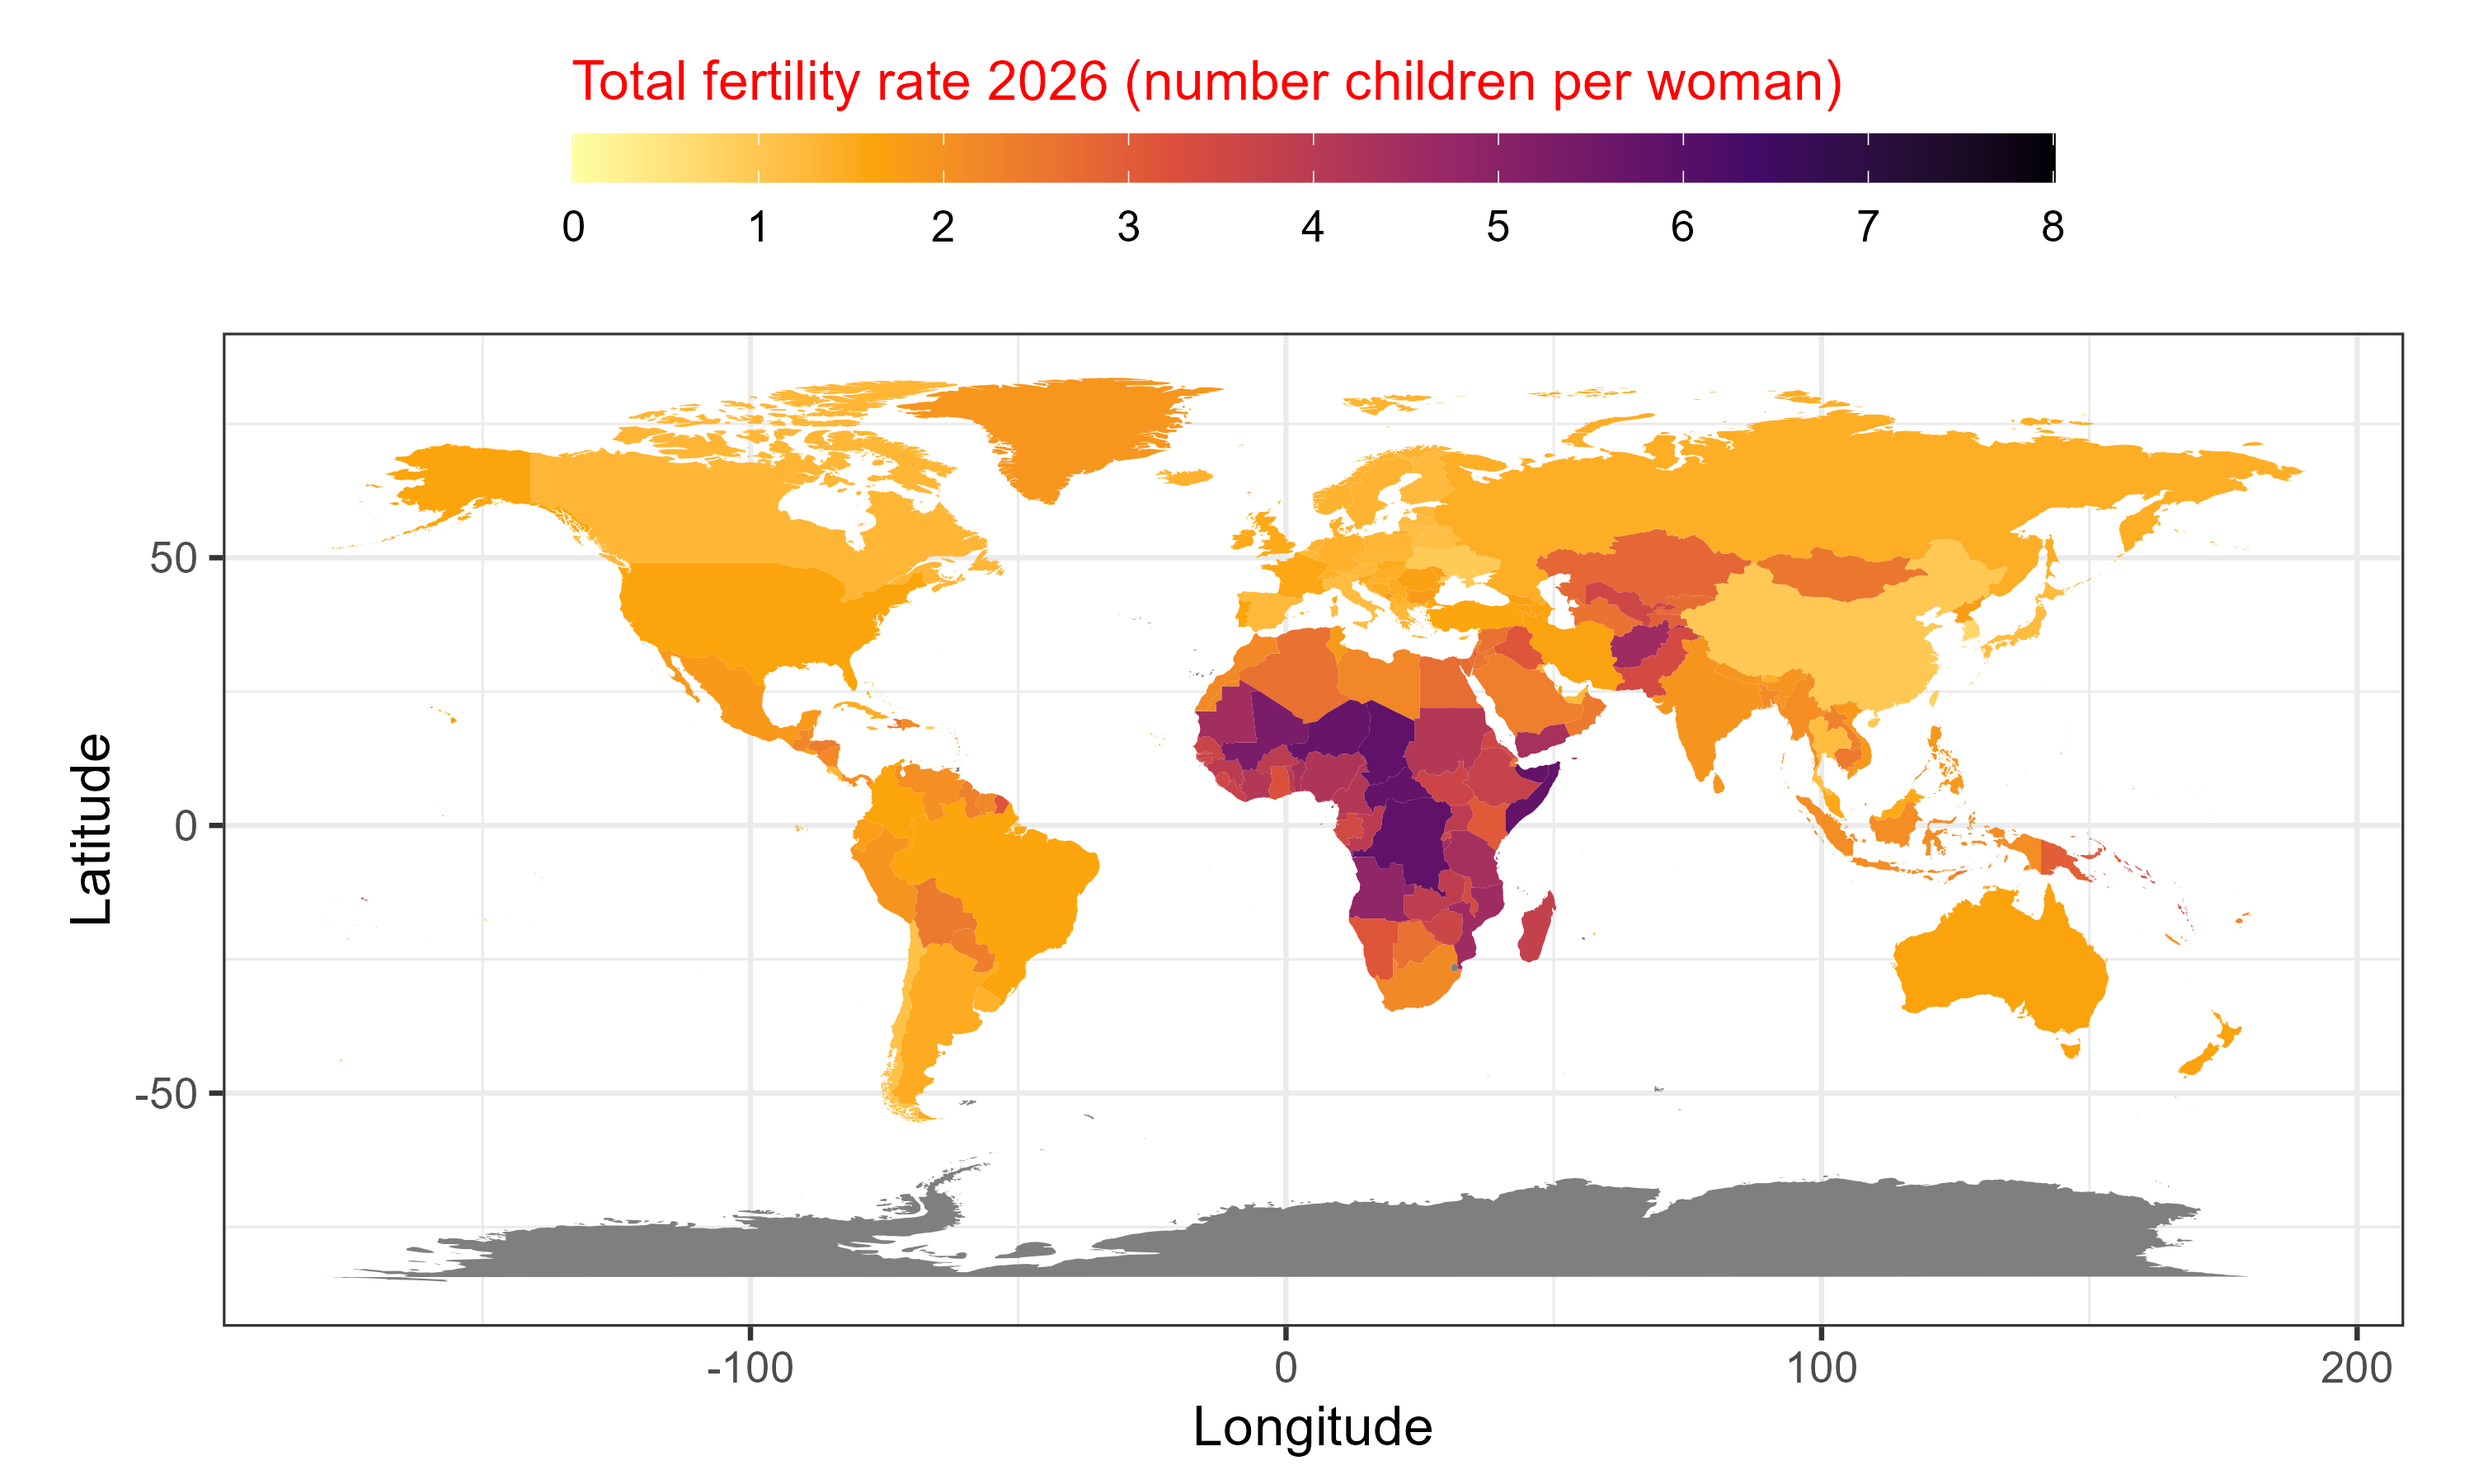
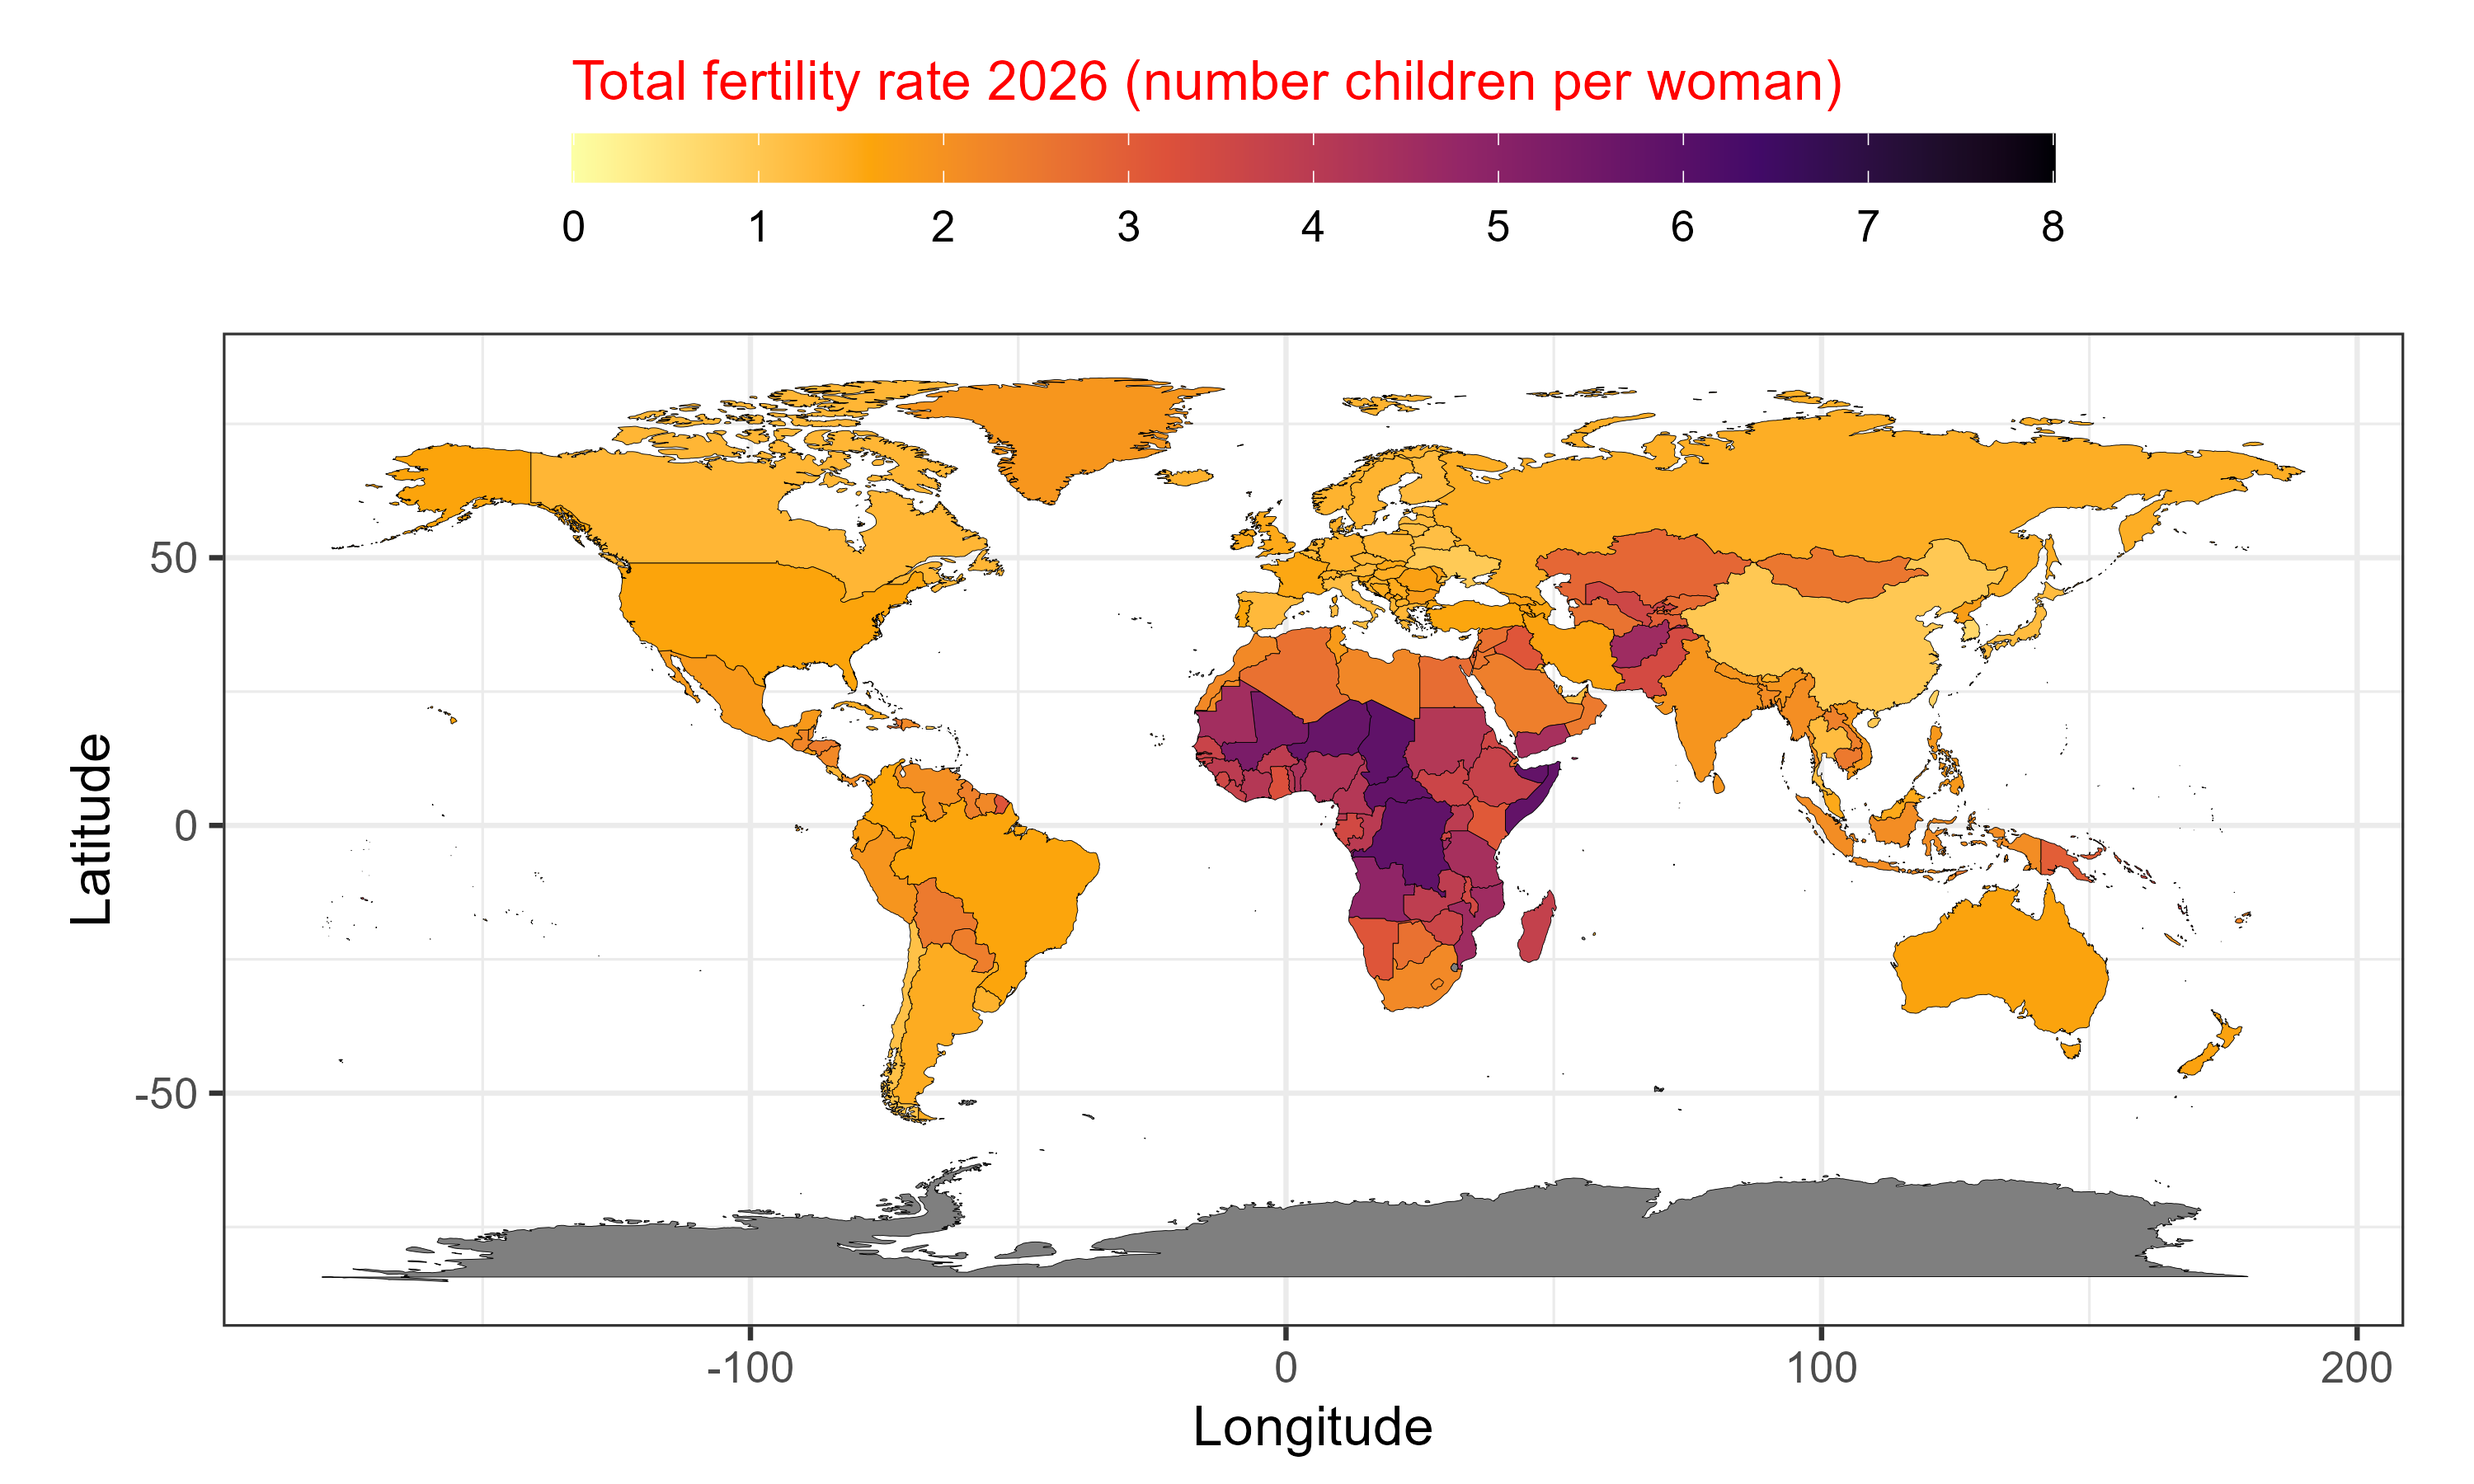
.

diff --git a/docs/bai-tap-ve-ban-do-tfr.html b/docs/bai-tap-ve-ban-do-tfr.html
@@ -736,32 +736,34 @@ div.yes123 pre.r { background-color:#F1F3F5; font-size: 16px; }
 <span id="cb25-4"><a href="#cb25-4" aria-hidden="true" tabindex="-1"></a>               <span class="fu">aes</span>(<span class="at">x =</span> long,</span>
 <span id="cb25-5"><a href="#cb25-5" aria-hidden="true" tabindex="-1"></a>                   <span class="at">y =</span> lat, </span>
 <span id="cb25-6"><a href="#cb25-6" aria-hidden="true" tabindex="-1"></a>                   <span class="at">group =</span> group,</span>
-<span id="cb25-7"><a href="#cb25-7" aria-hidden="true" tabindex="-1"></a>                   <span class="at">fill =</span> Total_fertility_rate)) <span class="sc">+</span> </span>
-<span id="cb25-8"><a href="#cb25-8" aria-hidden="true" tabindex="-1"></a>  </span>
-<span id="cb25-9"><a href="#cb25-9" aria-hidden="true" tabindex="-1"></a>  <span class="fu">coord_equal</span>() <span class="sc">+</span></span>
-<span id="cb25-10"><a href="#cb25-10" aria-hidden="true" tabindex="-1"></a>  <span class="fu">scale_fill_viridis_c</span>(<span class="at">option =</span> <span class="st">"B"</span>,</span>
-<span id="cb25-11"><a href="#cb25-11" aria-hidden="true" tabindex="-1"></a>                       <span class="at">direction =</span> <span class="sc">-</span><span class="dv">1</span>,</span>
-<span id="cb25-12"><a href="#cb25-12" aria-hidden="true" tabindex="-1"></a>                       <span class="at">name =</span> <span class="st">"Total fertility rate 2026 (number children per woman)"</span>,</span>
-<span id="cb25-13"><a href="#cb25-13" aria-hidden="true" tabindex="-1"></a>                       <span class="at">limits =</span> <span class="fu">c</span>(<span class="dv">0</span>,<span class="dv">8</span>),</span>
-<span id="cb25-14"><a href="#cb25-14" aria-hidden="true" tabindex="-1"></a>                       <span class="at">breaks =</span> <span class="fu">c</span>(<span class="dv">0</span><span class="sc">:</span><span class="dv">8</span>),</span>
-<span id="cb25-15"><a href="#cb25-15" aria-hidden="true" tabindex="-1"></a>                       <span class="at">guide =</span> <span class="fu">guide_colorbar</span>(<span class="at">barwidth =</span> <span class="dv">30</span>,</span>
-<span id="cb25-16"><a href="#cb25-16" aria-hidden="true" tabindex="-1"></a>                                              <span class="at">barheight =</span> <span class="dv">1</span>)) <span class="sc">+</span></span>
-<span id="cb25-17"><a href="#cb25-17" aria-hidden="true" tabindex="-1"></a>  </span>
-<span id="cb25-18"><a href="#cb25-18" aria-hidden="true" tabindex="-1"></a>  </span>
-<span id="cb25-19"><a href="#cb25-19" aria-hidden="true" tabindex="-1"></a>  <span class="fu">theme_bw</span>(<span class="at">base_size =</span> <span class="dv">16</span>) <span class="sc">+</span></span>
+<span id="cb25-7"><a href="#cb25-7" aria-hidden="true" tabindex="-1"></a>                   <span class="at">fill =</span> Total_fertility_rate),</span>
+<span id="cb25-8"><a href="#cb25-8" aria-hidden="true" tabindex="-1"></a>               <span class="at">color =</span> <span class="st">"black"</span>,</span>
+<span id="cb25-9"><a href="#cb25-9" aria-hidden="true" tabindex="-1"></a>               <span class="at">lwd =</span> <span class="fl">0.1</span>) <span class="sc">+</span> </span>
+<span id="cb25-10"><a href="#cb25-10" aria-hidden="true" tabindex="-1"></a>  </span>
+<span id="cb25-11"><a href="#cb25-11" aria-hidden="true" tabindex="-1"></a>  <span class="fu">coord_equal</span>() <span class="sc">+</span></span>
+<span id="cb25-12"><a href="#cb25-12" aria-hidden="true" tabindex="-1"></a>  <span class="fu">scale_fill_viridis_c</span>(<span class="at">option =</span> <span class="st">"B"</span>,</span>
+<span id="cb25-13"><a href="#cb25-13" aria-hidden="true" tabindex="-1"></a>                       <span class="at">direction =</span> <span class="sc">-</span><span class="dv">1</span>,</span>
+<span id="cb25-14"><a href="#cb25-14" aria-hidden="true" tabindex="-1"></a>                       <span class="at">name =</span> <span class="st">"Total fertility rate 2026 (number children per woman)"</span>,</span>
+<span id="cb25-15"><a href="#cb25-15" aria-hidden="true" tabindex="-1"></a>                       <span class="at">limits =</span> <span class="fu">c</span>(<span class="dv">0</span>,<span class="dv">8</span>),</span>
+<span id="cb25-16"><a href="#cb25-16" aria-hidden="true" tabindex="-1"></a>                       <span class="at">breaks =</span> <span class="fu">c</span>(<span class="dv">0</span><span class="sc">:</span><span class="dv">8</span>),</span>
+<span id="cb25-17"><a href="#cb25-17" aria-hidden="true" tabindex="-1"></a>                       <span class="at">guide =</span> <span class="fu">guide_colorbar</span>(<span class="at">barwidth =</span> <span class="dv">30</span>,</span>
+<span id="cb25-18"><a href="#cb25-18" aria-hidden="true" tabindex="-1"></a>                                              <span class="at">barheight =</span> <span class="dv">1</span>)) <span class="sc">+</span></span>
+<span id="cb25-19"><a href="#cb25-19" aria-hidden="true" tabindex="-1"></a>  </span>
 <span id="cb25-20"><a href="#cb25-20" aria-hidden="true" tabindex="-1"></a>  </span>
-<span id="cb25-21"><a href="#cb25-21" aria-hidden="true" tabindex="-1"></a>  <span class="fu">theme</span>(<span class="at">legend.position =</span> <span class="st">"top"</span>) <span class="sc">+</span></span>
+<span id="cb25-21"><a href="#cb25-21" aria-hidden="true" tabindex="-1"></a>  <span class="fu">theme_bw</span>(<span class="at">base_size =</span> <span class="dv">16</span>) <span class="sc">+</span></span>
 <span id="cb25-22"><a href="#cb25-22" aria-hidden="true" tabindex="-1"></a>  </span>
-<span id="cb25-23"><a href="#cb25-23" aria-hidden="true" tabindex="-1"></a>  <span class="fu">theme</span>(<span class="at">legend.direction =</span> <span class="st">"horizontal"</span>) <span class="sc">+</span></span>
+<span id="cb25-23"><a href="#cb25-23" aria-hidden="true" tabindex="-1"></a>  <span class="fu">theme</span>(<span class="at">legend.position =</span> <span class="st">"top"</span>) <span class="sc">+</span></span>
 <span id="cb25-24"><a href="#cb25-24" aria-hidden="true" tabindex="-1"></a>  </span>
-<span id="cb25-25"><a href="#cb25-25" aria-hidden="true" tabindex="-1"></a>  <span class="fu">theme</span>(<span class="at">legend.title.position  =</span> <span class="st">"top"</span>) <span class="sc">+</span></span>
+<span id="cb25-25"><a href="#cb25-25" aria-hidden="true" tabindex="-1"></a>  <span class="fu">theme</span>(<span class="at">legend.direction =</span> <span class="st">"horizontal"</span>) <span class="sc">+</span></span>
 <span id="cb25-26"><a href="#cb25-26" aria-hidden="true" tabindex="-1"></a>  </span>
-<span id="cb25-27"><a href="#cb25-27" aria-hidden="true" tabindex="-1"></a>  <span class="fu">theme</span>(<span class="at">legend.title  =</span> <span class="fu">element_text</span>(<span class="at">color =</span> <span class="st">"red"</span>,</span>
-<span id="cb25-28"><a href="#cb25-28" aria-hidden="true" tabindex="-1"></a>                                     <span class="at">size =</span> <span class="dv">16</span>)) <span class="sc">+</span></span>
-<span id="cb25-29"><a href="#cb25-29" aria-hidden="true" tabindex="-1"></a>  </span>
-<span id="cb25-30"><a href="#cb25-30" aria-hidden="true" tabindex="-1"></a>  <span class="fu">labs</span>(<span class="at">x =</span> <span class="st">"Longitude"</span>,</span>
-<span id="cb25-31"><a href="#cb25-31" aria-hidden="true" tabindex="-1"></a>       <span class="at">y =</span> <span class="st">"Latitude"</span>)</span>
-<span id="cb25-32"><a href="#cb25-32" aria-hidden="true" tabindex="-1"></a><span class="co"># worldplot</span></span></code></pre></div><button title="Copy to Clipboard" class="code-copy-button"><i class="bi"></i></button></div>
+<span id="cb25-27"><a href="#cb25-27" aria-hidden="true" tabindex="-1"></a>  <span class="fu">theme</span>(<span class="at">legend.title.position  =</span> <span class="st">"top"</span>) <span class="sc">+</span></span>
+<span id="cb25-28"><a href="#cb25-28" aria-hidden="true" tabindex="-1"></a>  </span>
+<span id="cb25-29"><a href="#cb25-29" aria-hidden="true" tabindex="-1"></a>  <span class="fu">theme</span>(<span class="at">legend.title  =</span> <span class="fu">element_text</span>(<span class="at">color =</span> <span class="st">"red"</span>,</span>
+<span id="cb25-30"><a href="#cb25-30" aria-hidden="true" tabindex="-1"></a>                                     <span class="at">size =</span> <span class="dv">16</span>)) <span class="sc">+</span></span>
+<span id="cb25-31"><a href="#cb25-31" aria-hidden="true" tabindex="-1"></a>  </span>
+<span id="cb25-32"><a href="#cb25-32" aria-hidden="true" tabindex="-1"></a>  <span class="fu">labs</span>(<span class="at">x =</span> <span class="st">"Longitude"</span>,</span>
+<span id="cb25-33"><a href="#cb25-33" aria-hidden="true" tabindex="-1"></a>       <span class="at">y =</span> <span class="st">"Latitude"</span>)</span>
+<span id="cb25-34"><a href="#cb25-34" aria-hidden="true" tabindex="-1"></a><span class="co"># worldplot</span></span></code></pre></div><button title="Copy to Clipboard" class="code-copy-button"><i class="bi"></i></button></div>
 </div>
 <p><img src="worldplot_2026.png" class="img-fluid"></p>
 <div class="cell">

diff --git a/docs/cach-xem-source-va-edit-function.html b/docs/cach-xem-source-va-edit-function.html
@@ -550,7 +550,7 @@ Ferrari Dino   19.7   6 145.0 175 3.62 2.770 15.50  0  1    5    6</code></pre>
 <div class="cell-output cell-output-stdout">
 <pre><code>function (x, ...) 
 UseMethod("subset")
-&lt;bytecode: 0x000001bc3506a728&gt;
+&lt;bytecode: 0x0000013b9906a728&gt;
 &lt;environment: namespace:base&gt;</code></pre>
 </div>
 </div>
@@ -591,7 +591,7 @@ see '?methods' for accessing help and source code</code></pre>
     }
     x[r, vars, drop = drop]
 }
-&lt;bytecode: 0x000001bc35922570&gt;
+&lt;bytecode: 0x0000013b9985d570&gt;
 &lt;environment: namespace:base&gt;</code></pre>
 </div>
 </div>
@@ -647,7 +647,7 @@ Ferrari Dino   19.7   6 145.0 175 3.62 2.770 15.50  0  1    5    6</code></pre>
 {
     UseMethod("qqPlot")
 }
-&lt;bytecode: 0x000001bc32f444f8&gt;
+&lt;bytecode: 0x0000013b96f444f8&gt;
 &lt;environment: namespace:car&gt;</code></pre>
 </div>
 <div class="code-copy-outer-scaffold"><div class="sourceCode cell-code" id="cb16"><pre class="sourceCode r code-with-copy"><code class="sourceCode r"><span id="cb16-1"><a href="#cb16-1" aria-hidden="true" tabindex="-1"></a><span class="fu">methods</span>(<span class="st">"qqPlot"</span>)</span></code></pre></div><button title="Copy to Clipboard" class="code-copy-button"><i class="bi"></i></button></div>

diff --git a/docs/index.html b/docs/index.html
@@ -486,7 +486,7 @@ ul.task-list li input[type="checkbox"] {
     <div>
     <div class="quarto-title-meta-heading">Published</div>
     <div class="quarto-title-meta-contents">
-      <p class="date">Cập nhật: 2026 October 05</p>
+      <p class="date">Cập nhật: 2026 October 06</p>
     </div>
   </div>
   
